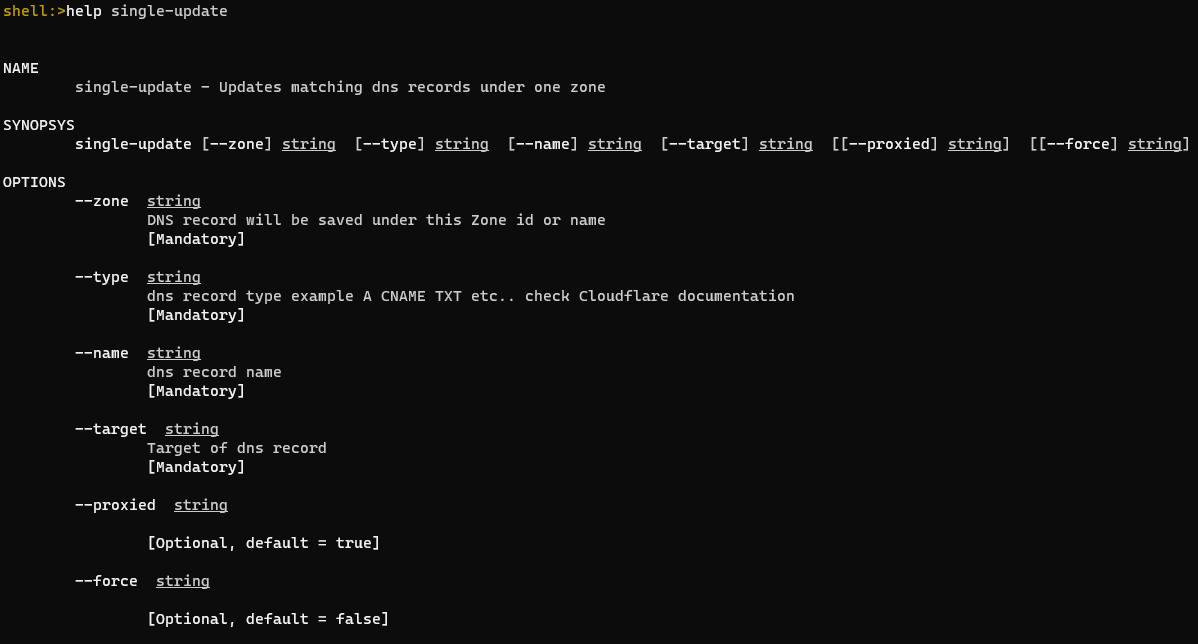
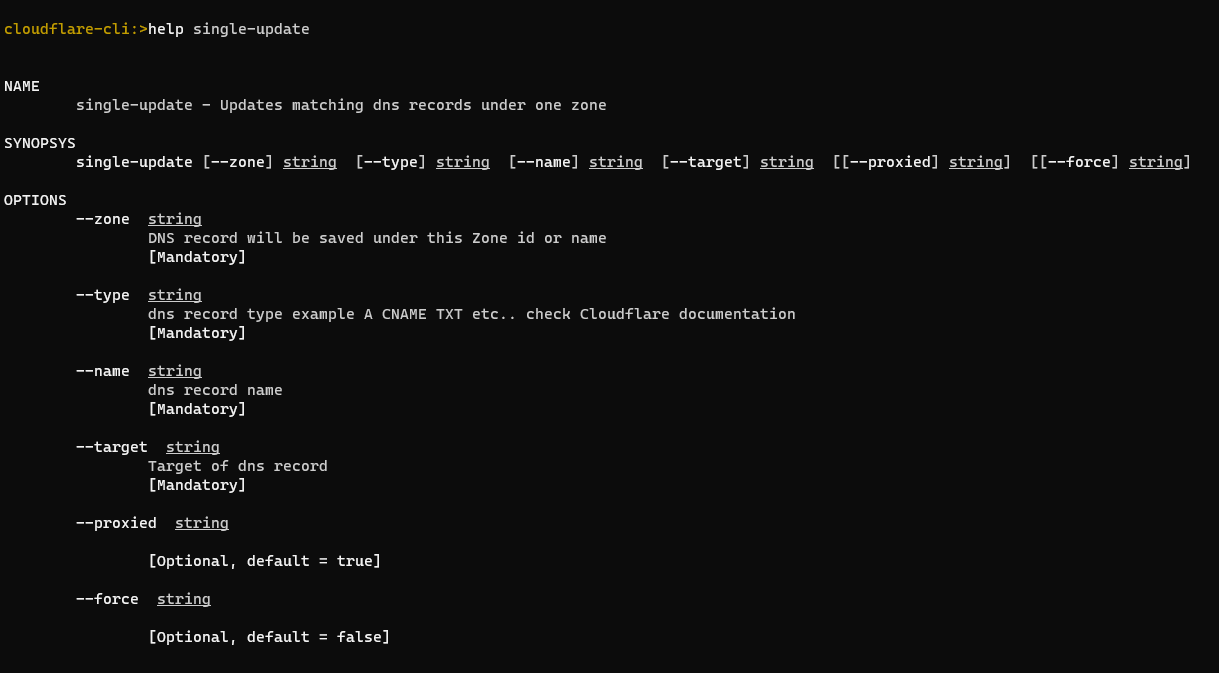
custom shell

diff --git a/src/main/java/org/kryptonmlt/cloudflare/cli/config/CustomPromptProvider.java b/src/main/java/org/kryptonmlt/cloudflare/cli/config/CustomPromptProvider.java
@@ -1,0 +1,17 @@
+package org.kryptonmlt.cloudflare.cli.config;
+
+import org.jline.utils.AttributedString;
+import org.jline.utils.AttributedStyle;
+import org.springframework.shell.jline.PromptProvider;
+import org.springframework.stereotype.Component;
+
+@Component
+public class CustomPromptProvider implements PromptProvider {
+
+    @Override
+    public AttributedString getPrompt() {
+        return new AttributedString("cloudflare-cli:>",
+                AttributedStyle.DEFAULT.foreground(AttributedStyle.YELLOW));
+    }
+
+}

diff --git a/README.md b/README.md
@@ -16,9 +16,9 @@ Currently this cloudflare-cli uses the API Token method but API Keys will be imp
 can be passed as environment variables in the docker run command.
 
 ## Usage
-As with most CLIs, *help* is your friend here
+- As with most CLIs, **help** is your friend here
 ![Help Command in cloudflare-cli](docs/help.PNG)
-You can also run help on a particular command to get more details; example *help single-update*
+- You can also run help on a particular command to get more details; example **help single-update**
 ![Help Command in cloudflare-cli](docs/help-1.PNG)
 
 ## Examples
